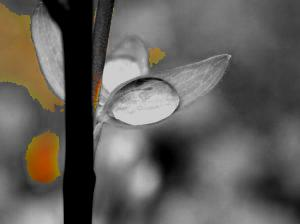
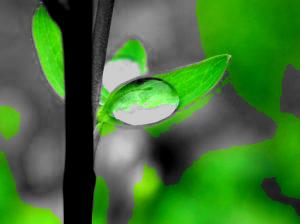
Refined Files

diff --git a/pixel3.py b/pixel3.py
@@ -1,0 +1,141 @@
+# Importing Image from PIL package
+from PIL import Image
+from functions import returnGreat, returnGreatString, returnLow, findSum, findDif, difGreat, determineMax
+# creating a image object
+im = Image.open(r"/workspace/Experiments/Pictures/leave.jpg")
+px = im.load()
+
+# Max = 300
+xBound = 300
+
+#Max = 224
+yBound = 224
+
+img = Image.new('RGB', (xBound, yBound))
+
+color = [0, 255, 0]
+colorname = "White"
+
+threasholdNum = 255
+threasholdDif = 127.5 + (color[0] + color[1] + color[2])/3
+needColor = True
+
+"""
+def findSum(num, bound):
+    if num == 255:
+        return 255
+    else:
+        return num + bound
+
+def findDif(num, bound):
+    if num == 0:
+        return 0
+    else:
+        return num - bound
+
+def returnGreat(a, b, c):
+    if a >= b:
+        if a >= c:
+            return a
+    if b >= c:
+        if b >= a:
+            return b
+    if c >= a: 
+        if c >= b:
+            return c
+
+def returnLow(a, b, c):
+    if a <= b:
+        if a <= c:
+            return a
+    if b <= c:
+        if b <= a:
+            return b
+    if c <= a: 
+        if c <= b:
+            return c
+
+def returnGreatString(a, b, c):
+    if a == b == c:
+        return "all"
+    if a >= b:
+        if a >= c:
+            return 'r'
+    if b >= c:
+        if b >= a:
+            return 'g'
+    if c >= a: 
+        if c >= b:
+            return 'b'
+
+def difGreat(great, low, threashDif):
+    if (great - low) <= threashDif:
+        return True
+    else:
+        return False
+
+def determineMax(inputVal, inputCol):
+    r = "r"
+    g = "g"
+    b = "b"
+    both = "all"
+    if inputVal == inputCol:
+        return True
+    elif inputCol == "all":
+        return True
+    else:
+        return False
+"""
+
+
+def inBounds(rVal, gVal, bVal, threasholdDif, threasholdNum, color):
+    # Difference Variables
+    rgDif = (rVal - gVal)/2
+    gbDif = (gVal - bVal)/2
+    rbDif = (rVal - bVal)/2
+    rgDifColor = (color[0] - color[1])
+    gbDifColor = (color[1] - color[2])
+    rbDifColor = (color[0] - color[2])
+    rgLBound = rgDifColor - threasholdDif
+    rgUBound = rgDifColor + threasholdDif
+    gbLBound = gbDifColor - threasholdDif
+    gbUBound = gbDifColor + threasholdDif
+    rbLBound = rbDifColor - threasholdDif
+    rbUBound = rbDifColor + threasholdDif
+
+    # Number Range Variables
+    rLBound = color[0]-threasholdNum
+    rUBound = color[0]+threasholdNum
+    gLBound = color[1]-threasholdNum
+    gUBound = color[1]+threasholdNum
+    bLBound = color[2]-threasholdNum
+    bUBound = color[2]+threasholdNum
+    
+    if (rLBound <= rVal <= rUBound) and (gLBound <= gVal <= gUBound) and (bLBound <= bVal <= bUBound) and (rgLBound <= rgDif <= rgUBound) and (gbLBound <= gbDif <= gbUBound) and (rbLBound <= rbDif <= rbUBound): 
+        return True
+    else:
+        return False
+
+colorMax = returnGreatString(color[0], color[1], color[2])
+colorMaxVal = returnGreat(color[0], color[1], color[2])
+colorMinVal = returnLow(color[0], color[1], color[2])
+colorMaxMinDif = difGreat(colorMaxVal, colorMinVal, colorMaxVal - colorMinVal)
+
+for x in range(xBound):
+    for y in range(yBound):
+        needColor = True
+        while needColor:
+            r = px[x,y][0]
+            g = px[x,y][1]
+            b = px[x,y][2]
+            if inBounds(r, g, b, threasholdDif, threasholdNum, color):
+                needColor = False
+                print("Found", colorname, "color at coords:", x, ",", y)
+                img.putpixel((x, y), (r, g, b))
+            else:
+                contrast = 50
+                f = (returnGreat(r, g, b)-contrast)
+                img.putpixel((x, y), (f, f, f))
+                needColor = False
+img.save("newImg.jpg")
+print("Image Saved!")

diff --git a/functions.py b/functions.py
@@ -1,0 +1,64 @@
+def findSum(num, bound):
+    if num == 255:
+        return 255
+    else:
+        return num + bound
+
+def findDif(num, bound):
+    if num == 0:
+        return 0
+    else:
+        return num - bound
+
+def returnGreat(a, b, c):
+    if a >= b:
+        if a >= c:
+            return a
+    if b >= c:
+        if b >= a:
+            return b
+    if c >= a: 
+        if c >= b:
+            return c
+
+def returnLow(a, b, c):
+    if a <= b:
+        if a <= c:
+            return a
+    if b <= c:
+        if b <= a:
+            return b
+    if c <= a: 
+        if c <= b:
+            return c
+
+def returnGreatString(a, b, c):
+    if a == b == c:
+        return "all"
+    if a >= b:
+        if a >= c:
+            return 'r'
+    if b >= c:
+        if b >= a:
+            return 'g'
+    if c >= a: 
+        if c >= b:
+            return 'b'
+
+def difGreat(great, low, threashDif):
+    if (great - low) <= threashDif:
+        return True
+    else:
+        return False
+
+def determineMax(inputVal, inputCol):
+    r = "r"
+    g = "g"
+    b = "b"
+    both = "all"
+    if inputVal == inputCol:
+        return True
+    elif inputCol == "all":
+        return True
+    else:
+        return False
